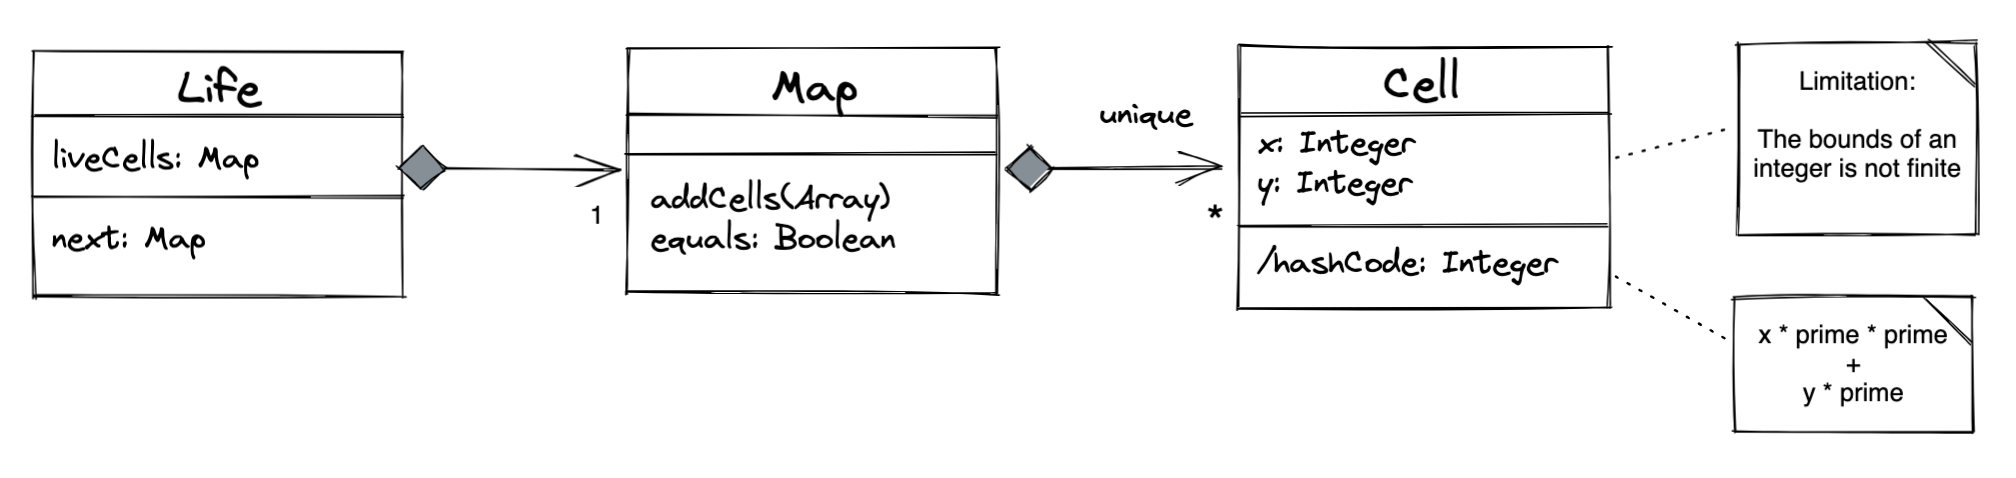
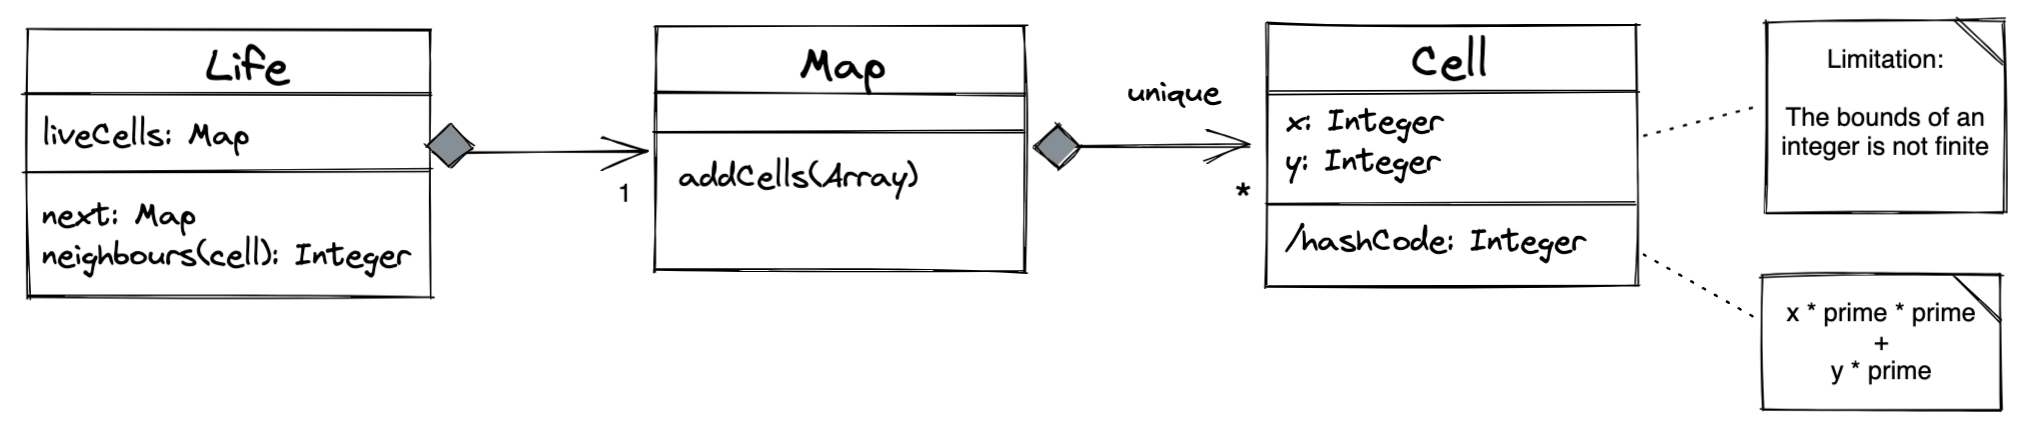
added installation instructions and narrative

diff --git a/README.md b/README.md
@@ -4,16 +4,19 @@
 This is my solution to [BBC Game of Life technical challenge](docs/Game+of+Life+Candidate+Instructions.md).
 
 ## Installation
+    npm install
 
 ## Execution
+    npm run test
+Without an explicit instruction to provide visual output I chose to focus on logic alone. Assuming my tests are sufficient, a suite of passing tests is an indicator of success.
 
 ## Narrative
 
-Approach
-1. Search internet for successful and unsuccessful approaches and take inspiration from them
+### Approach
+1. Search internet for successful and unsuccessful approaches and take inspiration from (not copy!) them
 1. Create a skeleton starting point, check into Github, submit link to assessor
-1. Iterate on scenarios, committing to Github often, create release points for each successful scenario
-1. Document and publish
+1. Iterate on scenarios, committing to Github often
+1. Document 
 
 After searching the internet, I realised these things:
 - The grid size is "infinite" meaning my initial throughs of a two-dimensional array wouldn't work due to memory capacity
@@ -39,3 +42,18 @@ The collections available in JavaScript are Array, Map and Set.
 
 I will use a Map.
 
+Map uses [`key`, `value`] pairs. To uniquely store a Cell each `key` needs to be unique. The uniqueness can be obtained from the Cell `x` and `y` properties, but to differentiate between `(0,1)` and `(1,0)` it needs a hash. I will follow other approaches on the internet to multiply the properties by small prime numbers and add together to make a hash. 
+
+Here's an entity relationship diagram showing a bit more detail. `Life` has one `Map` which has zero or more `Cell`. A `Cell` identifies itself by holding its `x` and `y` properties, and surfaces a `hashCode()` method based on a calculation on those properties.
+
+![](docs/ER-DiagramDetail.png) 
+
+The challenge asks for an "infinite" two-dimensional grid, and by using `Integer` type for `x` and `y` positions this has a limitation of the size of `Integer` but presumably that's sufficient for this approach.
+
+### Reflection
+
+Scenarios 0 to 4 were achievable with a simple `true`/`false` switch on number of neighbours which I implemented in `isCellSurvivable()`. Only Scenario 0 asks for an evolution. The remainder of my solution was based on the premise that this approach is sound. Only when I implemented the final line of code did I realise that `isCellSurvivable()` is not used. I now wonder if this is the learning outcome I was expected to experience, and should I instead question my approach. (I now wonder if my "house of cards" is about to fall down, but I *think* my tests are trustable).
+
+Also, before starting to implement I did believe that uniqueness in Map needed me to write an `equals()` method because `Map` doesn't come with one, so I wrote one based on the hash approach, but removed it from the final implementation as it isn't needed.
+
+This was my first time with test driven development. I have learned that if I can write reliable tests, then I have more confidence in writing code, safe in the knowledge that my tests have my back. 
